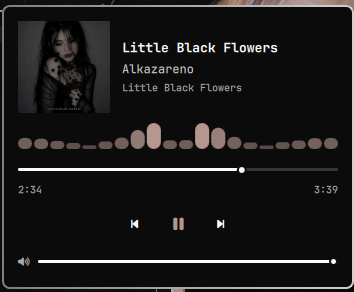
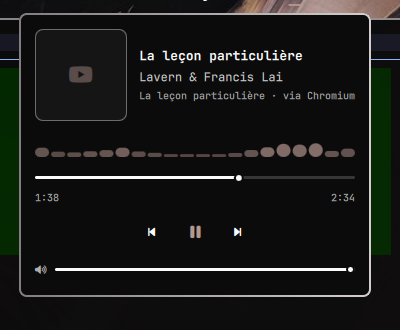
Fix browser detection, widen browser support, and add a clean preview
The album-based heuristic was wrong. Measured against a live session,
YouTube Music in Chromium reports an empty `album` exactly like a plain
YouTube video does, so requiring artist *and* album rejected real YouTube
Music playback and left the widget idle — the opposite of its purpose.
Chromium's metadata carries no URL either, so nothing in MPRIS can separate
the two. Browser sessions reporting an artist are now adopted, and the source
is named in the panel so the user is never guessing.

Precision moves to an opt-in filter that reads window titles, where the
distinction does exist ("… | YouTube Music" vs "… - YouTube"). It defaults to
off because a window reports its *active* tab: a widget that blanks while
music plays would repeat the original bug.

Browser coverage no longer depends on a name list keeping up with forks. The
D-Bus name is checked too, since browsers derive it from their engine, which
catches Zen, LibreWolf, Brave and unknown Chromium forks. Verified that the
native Electron client still resolves as native despite sharing the .chromium
bus prefix, and that non-browser players such as VLC stay out.

preview.png shows the plugin's own placeholder rather than third-party album
artwork.

Changed region(s): [[0.0, 0.0, 1.0, 1.0], [0.5593, 0.6781, 0.6215, 0.7089]]

diff --git a/Model.js b/Model.js
@@ -31,17 +31,45 @@ var BROWSER_NAMES = [
   "librewolf",
   "waterfox",
   "floorp",
-  "zen browser",
+  "zen",
   "mozilla",
   "chromium",
   "chrome",
+  "thorium",
+  "ungoogled",
   "brave",
   "vivaldi",
   "edge",
   "opera",
+  "yandex",
   "epiphany",
   "gnome web",
-  "webkit"
+  "webkit",
+  "falkon",
+  "konqueror",
+  "midori",
+  "qutebrowser"
+]
+
+// A name list can never keep up with every fork, so the D-Bus name is checked
+// too: browsers derive it from their engine or product, giving
+// "org.mpris.MediaPlayer2.firefox.instance_1" for Firefox and its forks and
+// ".chromium"/".brave"/".chrome" across the Chromium family. This is only
+// consulted for the browser test — Electron apps also land under ".chromium",
+// and those must stay native, which they do because natives match first.
+var BROWSER_BUS_MARKERS = [
+  "firefox",
+  "chromium",
+  "chrome",
+  "brave",
+  "vivaldi",
+  "opera",
+  "edge",
+  "zen",
+  "epiphany",
+  "webkit",
+  "falkon",
+  "qutebrowser"
 ]
 
 function norm(value) {
@@ -77,18 +105,25 @@ function isNative(player, extraNames) {
 }
 
 function isBrowser(player) {
-  return matchesName(player, BROWSER_NAMES)
+  if (matchesName(player, BROWSER_NAMES)) return true
+
+  var bus = norm(player.dbusName)
+  for (var i = 0; i < BROWSER_BUS_MARKERS.length; i++) {
+    if (bus.indexOf(BROWSER_BUS_MARKERS[i]) !== -1) return true
+  }
+  return false
 }
 
-// Browsers expose one MPRIS session for whatever media is active, with no hint
-// about which site it came from. YouTube Music fills the MediaSession metadata
-// with artist *and* album; plain YouTube videos, podcasts and video players
-// almost always leave album empty. Strict mode requires both, which is a
-// heuristic, not a guarantee — hence the setting.
-function looksLikeMusic(player, strict) {
+// A browser publishes ONE MPRIS session for whatever media is active, and
+// Chromium's metadata is limited to title, artist, album, art and length —
+// no URL. Measured against a live session, YouTube Music leaves `album`
+// empty just like a plain YouTube video does, so the metadata alone cannot
+// tell the two apart. Requiring an artist is all it can honestly enforce;
+// anything narrower has to come from outside MPRIS (see titleOk, which the
+// panel derives from window titles).
+function looksLikeMusic(player, titleOk) {
   if (norm(player.trackArtist).length === 0) return false
-  if (!strict) return true
-  return norm(player.trackAlbum).length > 0
+  return titleOk !== false
 }
 
 function preferPlaying(candidates) {
@@ -111,12 +146,14 @@ function normalizeSource(value) {
 }
 
 // `players` is Mpris.players.values. `options` accepts:
-//   playerSource (string), strictBrowserMatch (bool), extraPlayerNames (string)
+//   playerSource (string), titleOk (bool), extraPlayerNames (string)
+// titleOk is the panel's window-title verdict: false rejects browser
+// sessions, anything else accepts them.
 function selectPlayer(players, options) {
   if (!players || players.length === 0) return null
   var opts = options || {}
   var extra = parseNames(opts.extraPlayerNames)
-  var strict = opts.strictBrowserMatch !== false
+  var titleOk = opts.titleOk
   var source = normalizeSource(opts.playerSource)
 
   var natives = []
@@ -127,7 +164,7 @@ function selectPlayer(players, options) {
     if (!player) continue
     if (isNative(player, extra)) {
       if (source !== "browser") natives.push(player)
-    } else if (source !== "native" && isBrowser(player) && looksLikeMusic(player, strict)) {
+    } else if (source !== "native" && isBrowser(player) && looksLikeMusic(player, titleOk)) {
       browsers.push(player)
     }
   }

diff --git a/Panel.qml b/Panel.qml
@@ -12,7 +12,7 @@ Panel {
   ipcTarget: "io.github.haripako.omamusic"
 
   readonly property string playerSource: root.setting("playerSource", "Auto")
-  readonly property bool strictBrowserMatch: root.setting("strictBrowserMatch", true)
+  readonly property bool strictBrowserMatch: root.setting("strictBrowserMatch", false)
   readonly property string extraPlayerNames: root.setting("extraPlayerNames", "")
   readonly property bool showVolume: root.setting("showVolume", true)
   readonly property bool scrollVolume: root.setting("scrollVolume", true)
@@ -21,9 +21,14 @@ Panel {
 
   property var player: Model.selectPlayer(Mpris.players.values, {
     playerSource: root.playerSource,
-    strictBrowserMatch: root.strictBrowserMatch,
+    titleOk: root.strictBrowserMatch ? windowTitles.matched : true,
     extraPlayerNames: root.extraPlayerNames
   })
+
+  WindowTitles {
+    id: windowTitles
+    enabled: root.strictBrowserMatch
+  }
 
   readonly property bool playing: player ? player.isPlaying : false
   readonly property string artUrl: player ? (player.trackArtUrl || "") : ""
@@ -274,7 +279,11 @@ Panel {
             Text {
               visible: root.albumName !== "" || root.sourceLabel !== ""
               width: parent.width
-              text: root.albumName !== "" ? root.albumName : root.sourceLabel
+              // Keep the source visible even when an album is present: which
+              // session is being driven should never be a guess.
+              text: root.albumName !== "" && root.sourceLabel !== ""
+                ? root.albumName + " · " + root.sourceLabel
+                : (root.albumName !== "" ? root.albumName : root.sourceLabel)
               color: root.dimForeground
               font.family: root.contentFontFamily
               font.pixelSize: Style.font.caption

diff --git a/WindowTitles.qml b/WindowTitles.qml
@@ -1,0 +1,58 @@
+import QtQuick
+import Quickshell.Io
+
+// Optional precision filter for the browser route.
+//
+// Chromium's MPRIS metadata cannot distinguish YouTube Music from any other
+// site — measured on a live session, both leave `album` empty. The window
+// title can: YouTube Music renders "<track> | YouTube Music" while a plain
+// video renders "<title> - YouTube".
+//
+// It is a trade, not a free win. A browser window reports the title of its
+// *active* tab, so switching that window to another tab while music keeps
+// playing in the background makes the match disappear. That is why this is
+// off by default: a widget that goes blank while music plays is worse than
+// one that occasionally adopts the wrong media.
+Item {
+  id: root
+
+  property bool enabled: false
+  property string needle: "youtube music"
+  readonly property bool matched: _matched
+
+  property bool _matched: false
+
+  onEnabledChanged: if (!enabled) _matched = false
+
+  Timer {
+    interval: 3000
+    running: root.enabled
+    repeat: true
+    triggeredOnStart: true
+    onTriggered: if (!probe.running) probe.running = true
+  }
+
+  Process {
+    id: probe
+    command: ["hyprctl", "clients", "-j"]
+
+    stdout: StdioCollector {
+      onStreamFinished: root._matched = root.scan(text)
+    }
+  }
+
+  function scan(payload) {
+    try {
+      var clients = JSON.parse(payload)
+      for (var i = 0; i < clients.length; i++) {
+        var title = String(clients[i].title || "").toLowerCase()
+        if (title.indexOf(root.needle) !== -1) return true
+      }
+    } catch (error) {
+      // hyprctl missing or not Hyprland: fail open rather than blanking the
+      // widget over a filter the user only asked to narrow things with.
+      return true
+    }
+    return false
+  }
+}

diff --git a/README.md b/README.md
@@ -38,23 +38,38 @@ win over browsers:
 Any other client can be added through the `extraPlayerNames` setting.
 
 **Browser playback** on `music.youtube.com` (a normal tab or an installed PWA)
-also works through the browser's own MPRIS session — Firefox, Chromium,
-Chrome, Brave, Vivaldi, Edge, Opera, Zen, LibreWolf and friends.
+works through the browser's own MPRIS session, whichever browser you use:
+Firefox, Chromium, Chrome, Brave, Vivaldi, Edge, Opera, Zen, LibreWolf,
+Floorp, Waterfox, qutebrowser, Falkon, Epiphany and so on.
 
-There is a catch worth knowing: a browser exposes **one** MPRIS session for
-whatever media is currently active, and the metadata contains no URL. So the
-widget cannot truly know that the session is YouTube Music. It uses a
-heuristic — YouTube Music fills both **artist** and **album**, while plain
-YouTube videos leave album empty — which is what *Strict browser match*
-(on by default) enforces. It is a good signal, not a guarantee: another site
-that reports a full artist/album pair can be picked up too.
+Forks are covered without needing to be listed by name: besides the identity,
+the D-Bus name is checked, and browsers derive it from their engine
+(`org.mpris.MediaPlayer2.firefox.*` for the Firefox family,
+`.chromium` / `.chrome` / `.brave` for the Chromium family). The *Play* button
+is browser-agnostic too — it opens the URL with `xdg-open`, so your default
+browser is used, whatever it is.
+
+There is a catch worth knowing. A browser publishes **one** MPRIS session for
+whatever media is currently active, and Chromium's metadata is limited to
+title, artist, album, artwork and length — there is no URL. Measured against a
+live session, YouTube Music leaves `album` **empty**, exactly like a plain
+YouTube video does, so the metadata cannot tell the two apart. The widget
+therefore adopts any browser media session that reports an artist, and names
+the source (`via Chromium`) so you always know what you are driving.
+
+If that is too loose, turn on **Strict browser match**: it additionally
+requires a window titled *YouTube Music* to be open, which the tab title does
+expose. The trade-off is real — a browser window reports its *active* tab, so
+switching that window to another tab while music plays in the background makes
+the widget go idle. It is off by default for that reason, and it needs
+Hyprland since it reads `hyprctl`.
 
 If you only ever use a native client, set **Player source** to `Native app`
 and the guessing stops entirely. Setting it to `Browser` does the opposite:
 browser sessions only, and the play button always opens `music.youtube.com`
 rather than launching an app.
 
-When a browser session is being controlled, the panel shows `via <browser>`
+When a browser session is being controlled, the panel appends `via <browser>`
 under the track so it is never ambiguous which session you are driving.
 
 ## Install
@@ -142,7 +157,7 @@ widget's entry in `~/.config/omarchy/shell.json`:
 | Setting | Default | What it does |
 |---------|---------|--------------|
 | `playerSource` | `Auto` | `Auto`, `Native app` or `Browser` — where playback is controlled |
-| `strictBrowserMatch` | `true` | Only adopt a browser session reporting artist **and** album |
+| `strictBrowserMatch` | `false` | Also require an open window titled *YouTube Music* (Hyprland only) |
 | `extraPlayerNames` | `""` | Comma-separated MPRIS identities/desktop entries to also treat as YouTube Music |
 | `showVolume` | `true` | Show the volume slider when supported |
 | `scrollVolume` | `true` | Scroll over the bar icon to change volume |
